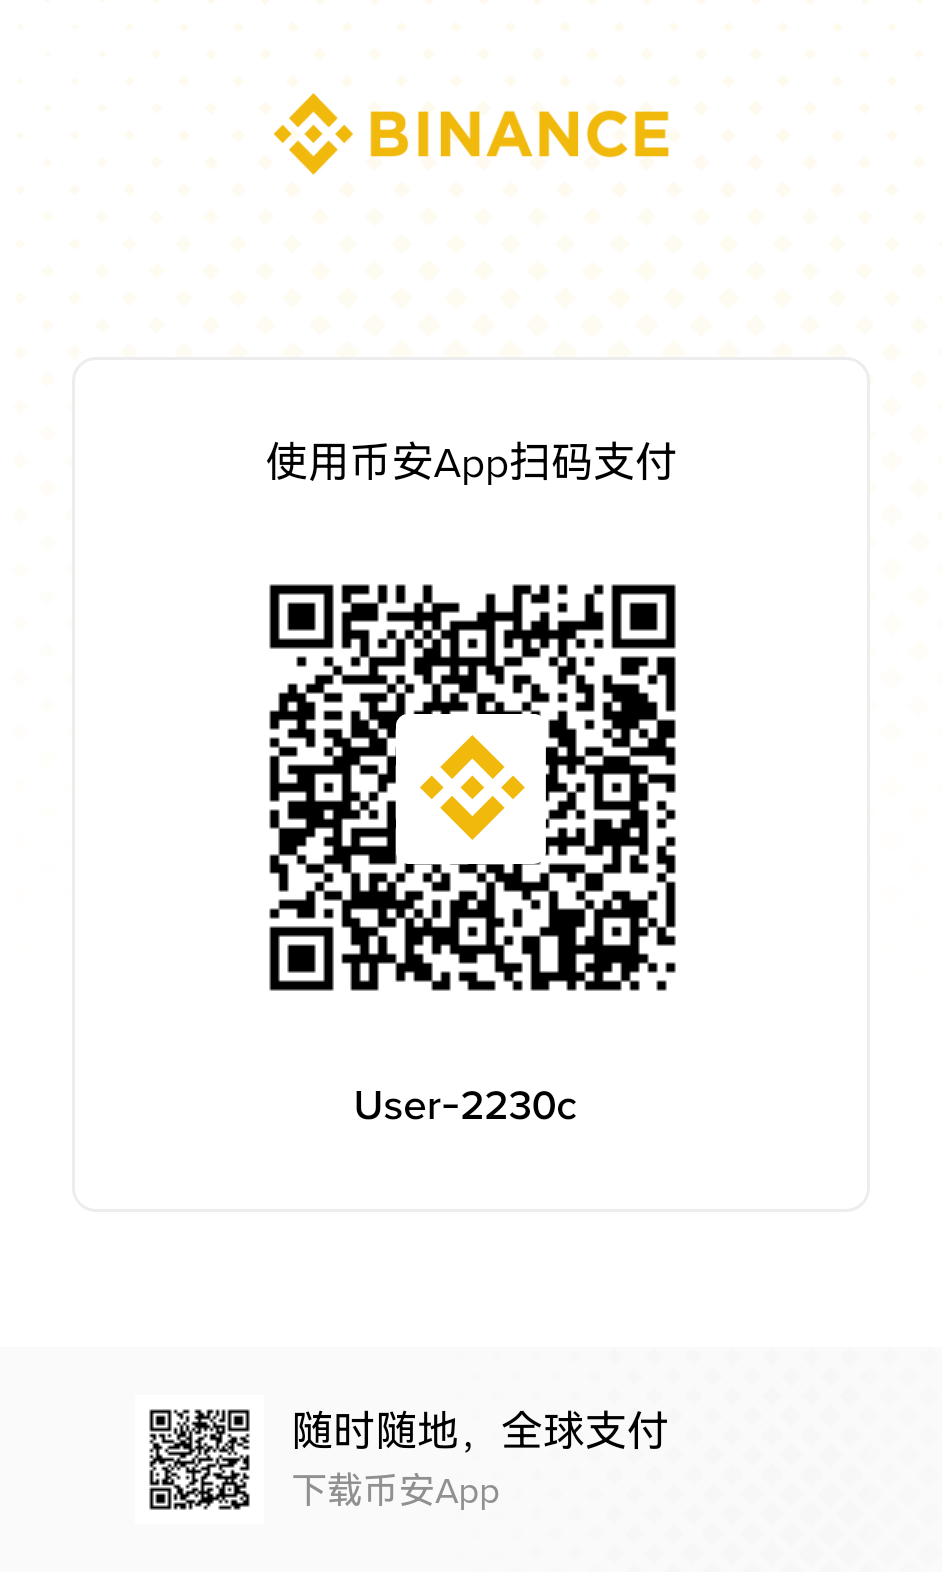
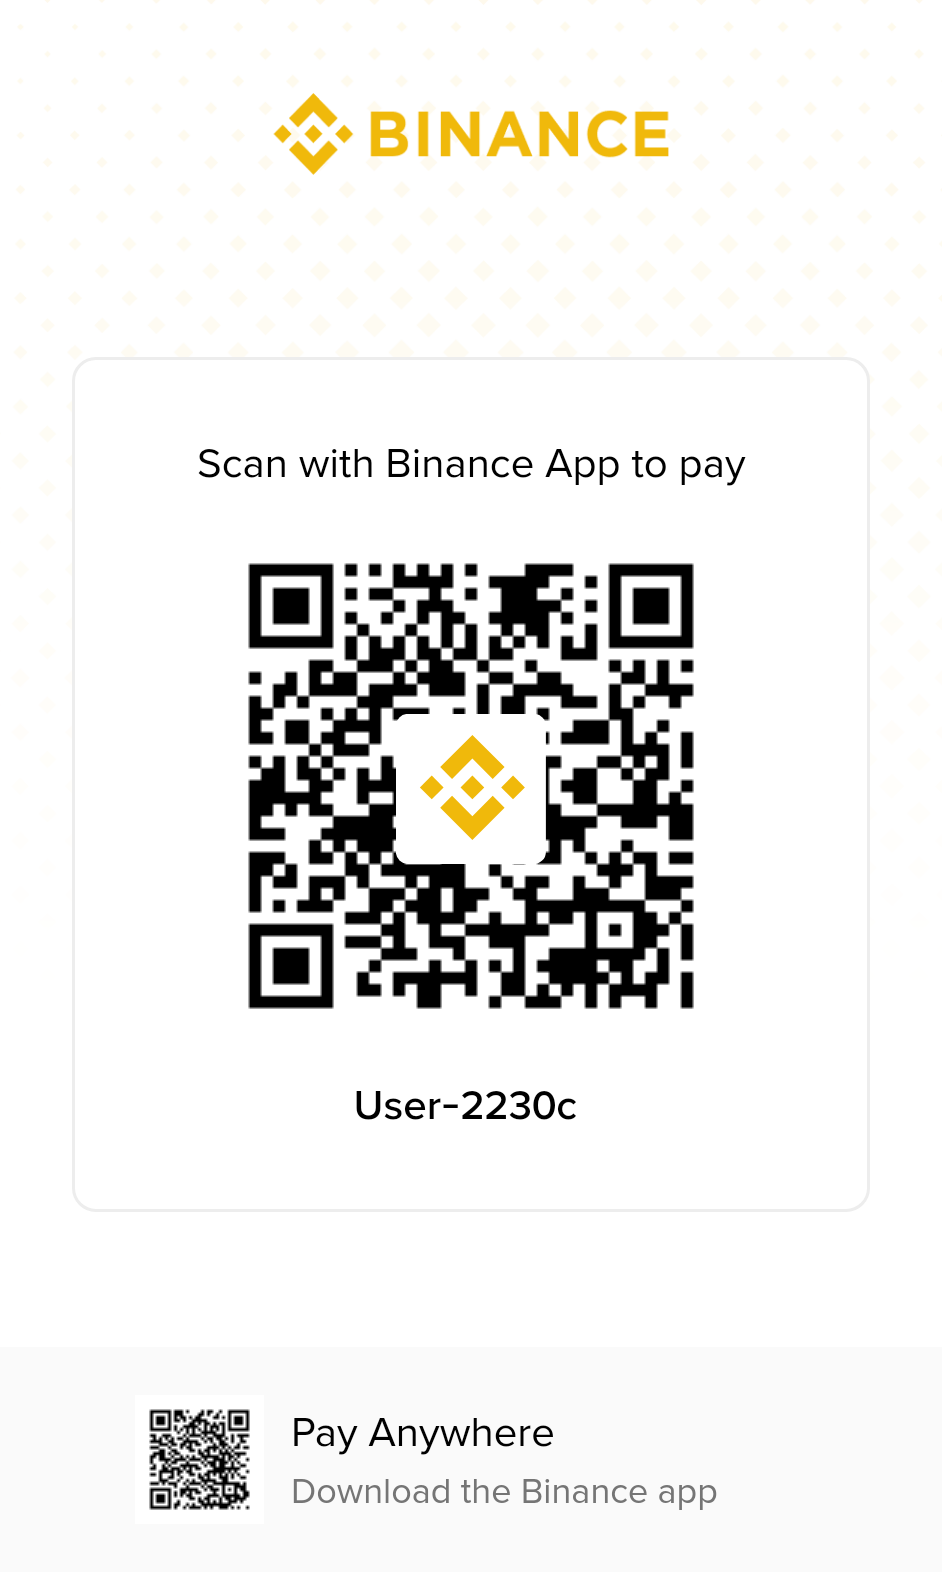
docs(readme): clarify donation channels and add sponsor button (#178)
* docs(readme): clarify donation channels and add sponsor button

* docs(readme): keep alipay and wechat qr codes collapsed

diff --git a/README.md b/README.md
@@ -297,20 +297,26 @@ PanWatch is free and open source. If it saves you time or improves your workflow
 [![PayPal](https://img.shields.io/badge/PayPal-Donate-0070BA?logo=paypal&logoColor=white&style=for-the-badge)](https://paypal.me/sunxiaoyes)
 
 <details>
-<summary>USDT (TRC20)</summary>
-
-Address: `TKBV69B2AoU67p3vDhnJUbMJtZ1DxuUF5C`
-
-<img src="./docs/donate/binance.png" width="220" alt="Binance USDT TRC20 QR code" />
-
-</details>
-
-<details>
 <summary>Alipay / WeChat Pay</summary>
 
 | Alipay | WeChat Pay |
 |:---:|:---:|
 | <img src="./docs/donate/alipay.png" width="160" alt="Alipay QR code" /> | <img src="./docs/donate/wechat.png" width="160" alt="WeChat Pay QR code" /> |
+
+</details>
+
+<details>
+<summary>USDT</summary>
+
+**Binance Pay** — scan with the Binance app:
+
+<img src="./docs/donate/binance.png" width="220" alt="Binance Pay QR code" />
+
+**On-chain USDT (TRC20)** — scan with any TRON wallet:
+
+Address: `TKBV69B2AoU67p3vDhnJUbMJtZ1DxuUF5C`
+
+<img src="./docs/donate/trc20.png" width="220" alt="USDT TRC20 address QR code" />
 
 </details>
 
